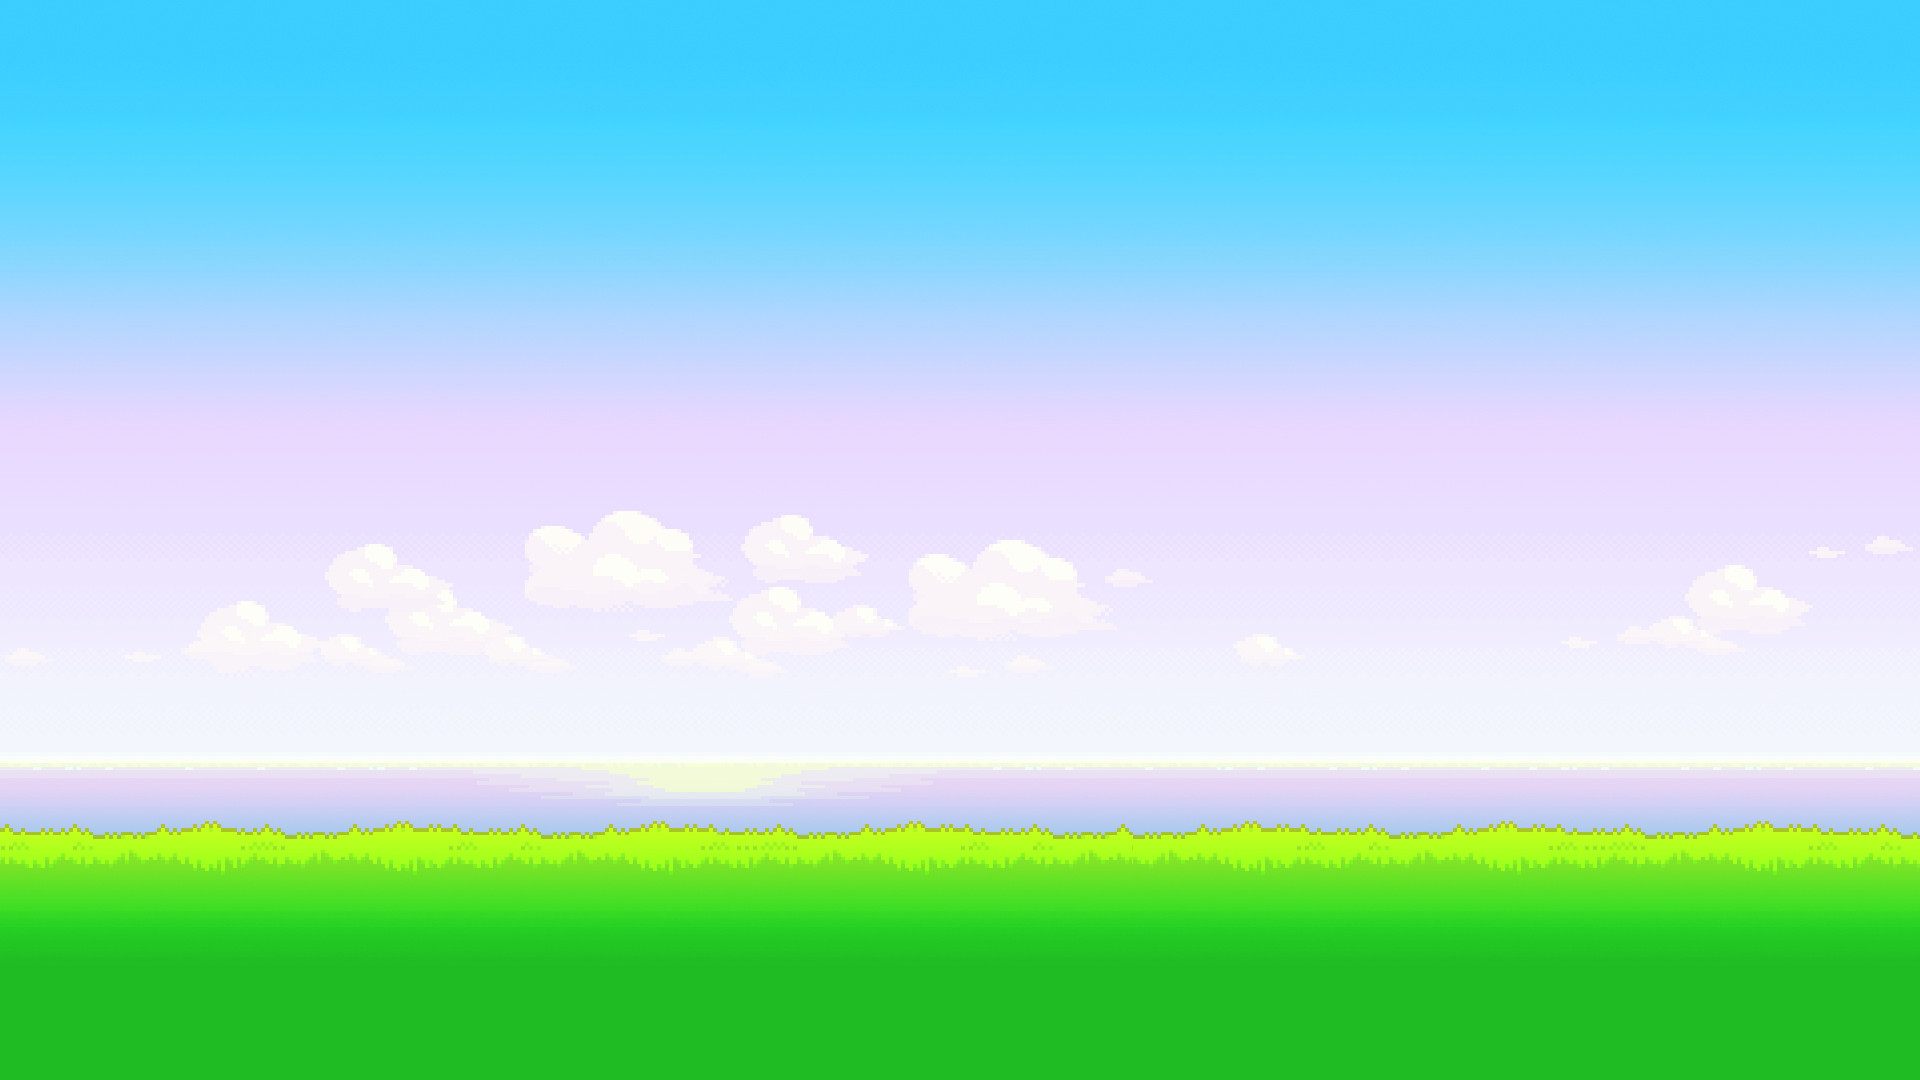
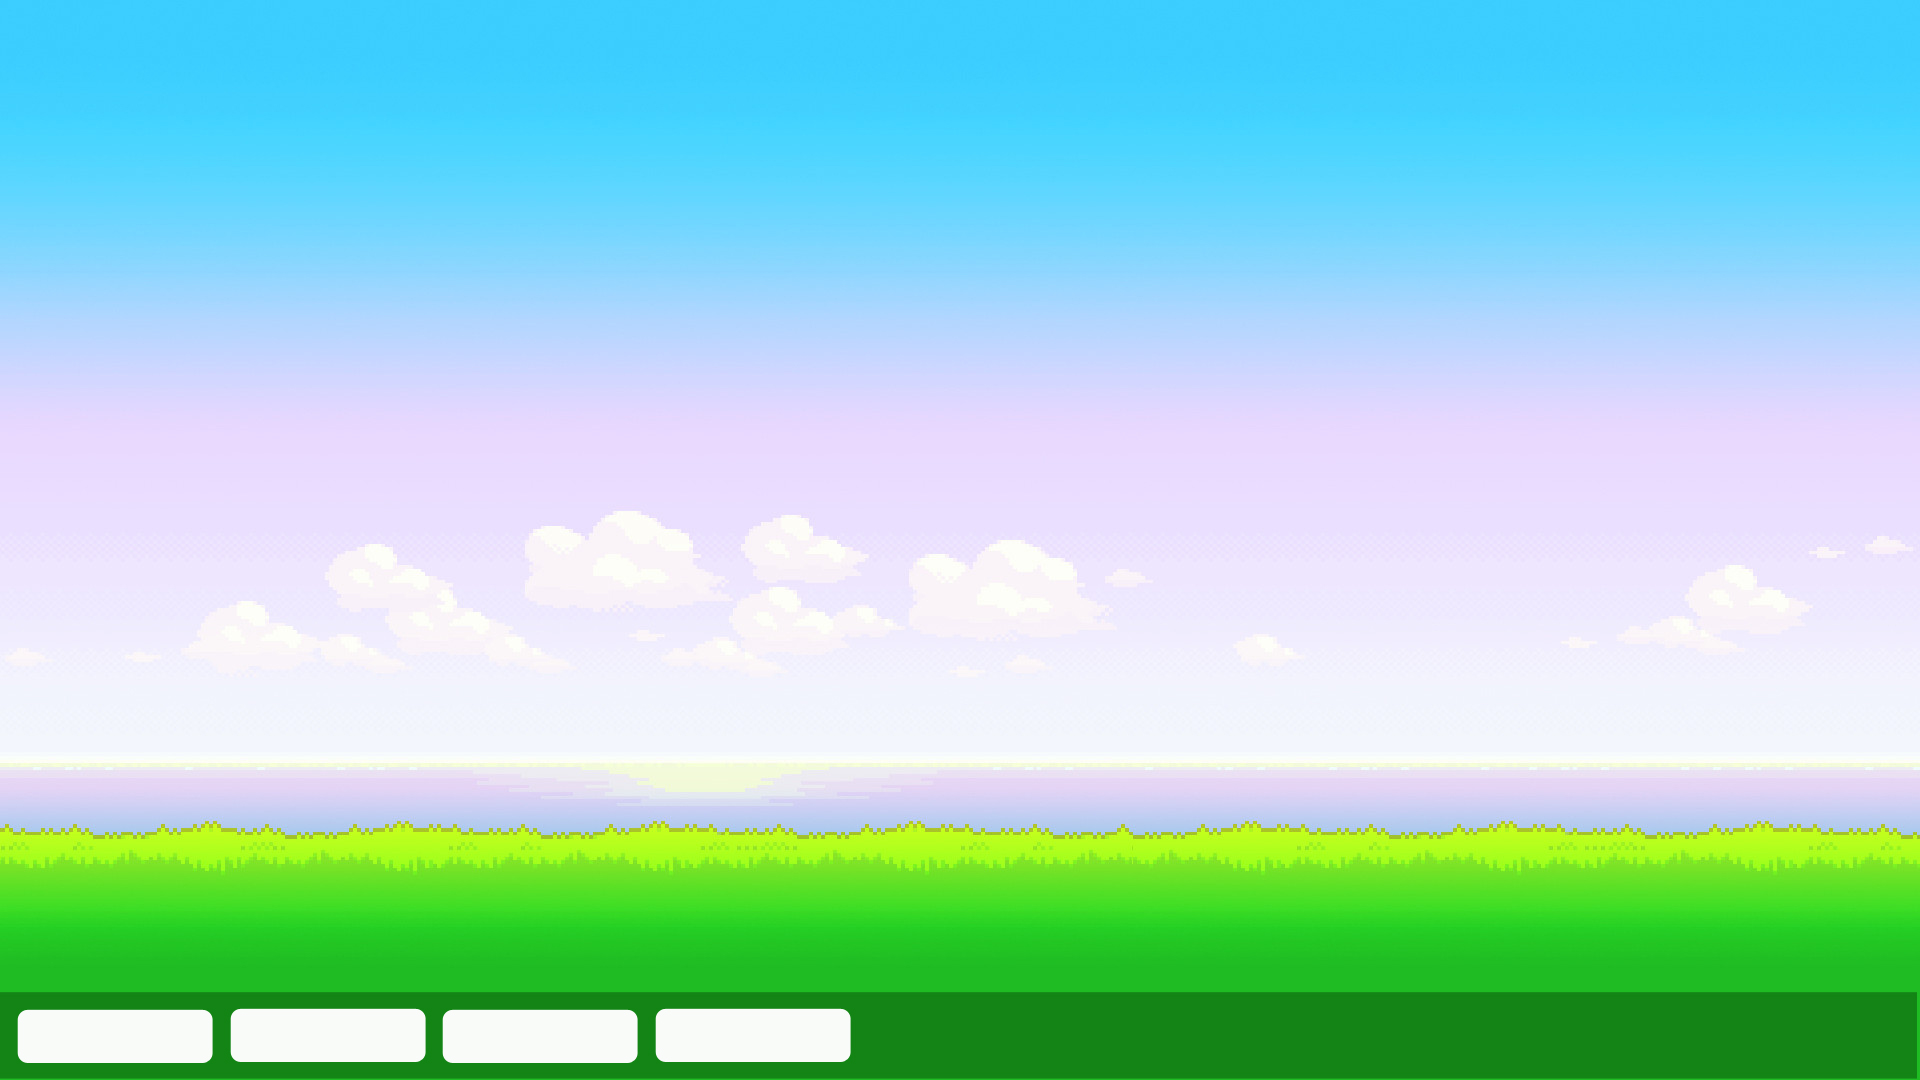
change bg_6.jpg image

Changed region(s): [[0.0, 0.9167, 1.0, 1.0]]

diff --git a/Project1_JavaGame/src/com/p1/client/GameView.java b/Project1_JavaGame/src/com/p1/client/GameView.java
@@ -5,6 +5,8 @@ import java.awt.event.*;
 import javax.swing.*;
 
 public class GameView extends JPanel implements Runnable {
+	Login login=new Login();
+	
 	// 필요한 요소, 배경, 플레이어, 포켓몬, 몬스터볼, 폭탄, 폭발
 	Image back, player, pokemon, mball, bomb, explo;
 
@@ -27,7 +29,7 @@ public class GameView extends JPanel implements Runnable {
 	JButton b1;
 
 	// 점수 및 기타 정보
-	String pname; // 플레이어 이름
+	String pname=login.tf.getText(); // 플레이어 이름
 	int life=5; // 플레이어 목숨
 	int score=0; // 플레이어 점수
 	int time=1; // 플레이어 시간
@@ -38,45 +40,17 @@ public class GameView extends JPanel implements Runnable {
 	// 쓰레드 생성
 	Thread th;
 
+	
 	// 게임 패널 생성
 	GameView() {
 		// 패널 구성
 		setLayout(null);
 
-		// 점수 및 기타 정보 패널 구성
-		tf1 = new JTextField(10);
-		tf1.setBounds(20, 630, 100, 35);
-		tf1.setBackground(Color.WHITE);
-		tf1.setEditable(false);
-
-		tf2 = new JTextField(10);
-		tf2.setBounds(130, 630, 100, 35);
-		tf2.setBackground(Color.WHITE);
-		tf2.setEditable(false);
-
-		tf3 = new JTextField(10);
-		tf3.setBounds(240, 630, 100, 35);
-		tf3.setBackground(Color.WHITE);
-		tf3.setEditable(false);
-
-		tf4 = new JTextField(10);
-		tf4.setBounds(350, 630, 100, 35);
-		tf4.setBackground(Color.WHITE);
-		tf4.setEditable(false);
-
 		b1 = new JButton("Exit");
+		b1.setBounds(600, 600, 100, 30);
 
-		p = new JPanel();
-		p.setBounds(getX(), 620, 1280, 60);
-		p.setBackground(new Color(0, 100, 0, 200));
-		p.add(b1);
-
-		add(tf1);
-		add(tf2);
-		add(tf3);
-		add(tf4);
-		add(p);
-
+		add(b1);
+		
 		// 배경 이미지 설정
 		back = tk.getImage("img\\Bg_6.jpg");
 
@@ -129,7 +103,7 @@ public class GameView extends JPanel implements Runnable {
 
 		for (int i = 0; i < 1; i++) {
 			if (py < 700) {
-				py += 1 + i;
+				py += 2 + i;
 			} else {
 				py = 0;
 			}
@@ -177,7 +151,10 @@ public class GameView extends JPanel implements Runnable {
 				
 			}
 			//텍스트 출력 및 게임 종료 프로세스 필요
-		}	
+		}
+		g.setFont(new Font("맑은고딕",Font.BOLD, 30));
+		g.drawString("Score: "+score, 130, 630);
+		
 
 		check();
 	}
